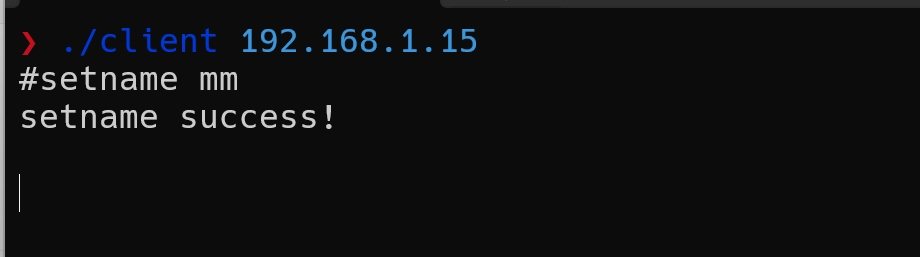
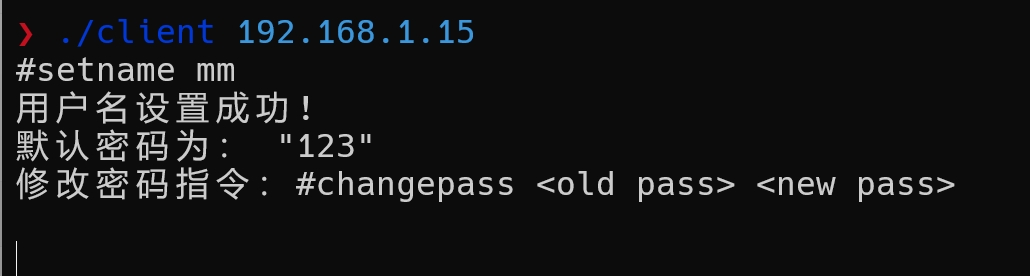
增加密码功能，修改退出登录命令

Changed region(s): [[0.0, 0.0, 0.5174, 1.0], [0.2739, 0.6226, 0.9435, 0.7471], [0.4565, 0.0, 1.0, 0.0311]]

diff --git a/src/server.c b/src/server.c
@@ -103,6 +103,7 @@ int set_user_name(int sfd, char *name, char *err)
 {
     int n, i;
     char *ptr;
+    char password[4] = "123";
 
     if (strlen(name) == 0) {
         n = sprintf(err, "%s", "命令错误，示例：#setname <user_name>\n\n");
@@ -137,10 +138,11 @@ int set_user_name(int sfd, char *name, char *err)
 
             memcpy(only_client[i].name, name, strlen(name));
             only_client[i].name[strlen(name)] = '\0'; // 添加字符串终止符
-
+            // 设置默认密码
+            strncpy(only_client[i].pass, "123", sizeof(only_client[i].pass));
             only_client[i].flag = 1;
             only_client[i].state = -1;
-            printf("set only_client[%d].name = %s\n", i, name);
+            printf("set only_client[%d].name = %s, only_client[%d].pss = %s, flag = %d\n", i, name, i, only_client[i].pass, only_client[i].flag);
             pthread_mutex_unlock(&client_lock);
             return i;
         }
@@ -149,58 +151,94 @@ int set_user_name(int sfd, char *name, char *err)
     return -1;
 }
 
-int login(int sfd, int index, char *name, char *err)
+int login(int sfd, int *index, char *data, char *err)
 {
-    int n, i;
-    if (only_client[index].state != -1 && index > 0) {
+    int n, i, flage = 0;
+    char *ptr;
+    char name[20], pass[20];
+
+    if (only_client[*index].state != -1 && *index >= 0) {
         n = sprintf(err, "%s", "你已经登录过了，不要重复登录（别偷摸登别人号）\n\n");
         err[n] = '\0';
         return -1;
     }
 
-    if (strlen(name) == 0) {
-        n = sprintf(err, "%s", "命令错误，示例：#login <user_name>\n\n");
+    if (strlen(data) == 0) {
+        n = sprintf(err, "%s", "命令错误，示例：#login <user_name> <password>\n\n");
         err[n] = '\0';
         return -1;
     }
 
-    pthread_mutex_lock(&client_lock);
-    for (i = 0; i < MAX_CONNECT_NUM; i++) {
-        if (only_client[i].flag == -1) {
-            continue;
-        }
-        if ((memcmp(name, only_client[i].name, strlen(name)) == 0) && (only_client[i].state == -1)) {
-            only_client[i].state = 1;
-            only_client[i].fd = sfd;
-            pthread_mutex_unlock(&client_lock);
-            return i;
-        }
-    }
-    pthread_mutex_unlock(&client_lock);
+    ptr = strchr(data, ' ');
+    if (ptr != NULL) {
+        // 复制私聊名字
+        strncpy(name, data, ptr - data);
+        name[ptr - data] = '\0';  // 添加字符串终止符
 
-    n = sprintf(err, "%s", "Username inexistence!\n\n");
-    err[n] = '\0';
+        // 移动指针到密码
+        data = ptr + 1;
+        //得到密码部分
+        strncpy(pass, data, sizeof(pass) - 1);
+        pass[strcspn(pass, "\n")] = '\0';
+
+        pthread_mutex_lock(&client_lock);
+        for (i = 0; i < MAX_CONNECT_NUM; i++) {
+            if (only_client[i].flag == -1) {
+                continue;
+            }
+
+            if ((memcmp(name, only_client[i].name, strlen(name)) == 0) &&
+                (!memcmp(pass, only_client[i].pass, strlen(pass)))) {
+                if (-1 == only_client[i].state) {
+                    only_client[i].state = 1;
+                    only_client[i].fd = sfd;
+                    pthread_mutex_unlock(&client_lock);
+                    *index = i;
+                    return i;
+                } else {
+                    flage = 1;
+                }
+            }
+        }
+        pthread_mutex_unlock(&client_lock);
+    } else {
+        n = sprintf(err, "Incorrect usage\n\n");
+        err[n] = '\0';
+        *index = -1;
+        return -1;
+    }
+
+    if (flage) {
+       n = sprintf(err, "%s", "该用户已经登录!\n\n");
+       err[n] = '\0'; 
+    } else {
+       n = sprintf(err, "%s", "Username inexistence or wrong password!\n\n");
+       err[n] = '\0'; 
+    }
+
+    *index = -1;
     return -1;
 }
 
 //每个人退出自己登录
-void logout(int sfd, int *index, char *err)
+int logout(int sfd, int *index, char *err)
 {
     int n, i;
 
-    if (*index < 0) {
-        n = sprintf(err, "%s", "You are not logged in yet, no need to log out!\n\n");
-        err[n] = '\0';
-        return;
+    printf("logout: index = %d, state = %d\n", *index, only_client[*index].state);
+    if (*index >= 0 && (only_client[*index].state == 1)) {
+        pthread_mutex_lock(&client_lock);
+        only_client[*index].fd = -1;
+        only_client[*index].state = -1;
+        pthread_mutex_unlock(&client_lock);
+
+        *index = -1;
+        return 0;
     }
 
-    pthread_mutex_lock(&client_lock);
-    only_client[*index].fd = -1;
-    only_client[*index].state = -1;
-    pthread_mutex_unlock(&client_lock);
-
-    *index = 0;
-    return;
+    n = sprintf(err, "%s", "You are not logged in yet, no need to log out!\n\n");
+    err[n] = '\0';
+    return -1;
 }
 
 int private_user(int from_index, char *data, char *err)
@@ -213,6 +251,18 @@ int private_user(int from_index, char *data, char *err)
 
     if (strlen(data) == 0) {
         n = sprintf(err, "%s", "命令错误，示例：#private <user_name> <string>\n\n");
+        err[n] = '\0';
+        return -1;
+    }
+
+    if (from_index < 0) {
+        n = sprintf(err, "%s", "请登录后再进行聊天，Thanks\n\n");
+        err[n] = '\0';
+        return -1;
+    }
+
+    if (only_client[from_index].state == -1) {
+        n = sprintf(err, "%s", "请登录后再进行聊天，Thanks\n\n");
         err[n] = '\0';
         return -1;
     }
@@ -271,10 +321,10 @@ void *handler(void *arg)
         char cmd[20];
         char data[MAX_LINE_VAL];
         char err[128];
-        char ok[40];
+        char ok[1024];
         memset(err, 0, 128);
         memset(cmd, 0, 20);
-        memset(ok, 0, 40);
+        memset(ok, 0, 1024);
         memset(data, 0, MAX_LINE_VAL);
 
         memset(buf, 0, MAX_LINE_VAL);
@@ -307,12 +357,12 @@ void *handler(void *arg)
             if (-1 == index) {
                 write(sfd, err, strlen(err));
             } else {
-                snprintf(ok, 40, "%s\n\n", "setname success!");
+                snprintf(ok, 1024, "%s\n\n", "用户名设置成功!\n默认密码为： \"123\"\n修改密码指令：#changepass <old pass> <new pass>");
                 write(sfd, ok, sizeof(ok));
             }
         } else if (!strcmp(cmd, "login")) {
             // 登录
-            if (-1 == login(sfd, index, data, err)) {
+            if (-1 == login(sfd, &index, data, err)) {
                 write(sfd, err, strlen(err));
             } else {
                 snprintf(ok, 40, "%s\n\n", "login success!");
@@ -324,8 +374,7 @@ void *handler(void *arg)
                 write(sfd, err, strlen(err));
             }
         } else if (!memcmp(cmd, "logout", strlen(cmd))) {
-            logout(sfd, &index, err);
-            if (-1 == index) {
+            if (-1 == logout(sfd, &index, err)) {
                 write(sfd, err, strlen(err));
             } else {
                 snprintf(ok, 40, "%s\n\n", "logout success!");

diff --git a/inc/chat.h b/inc/chat.h
@@ -10,7 +10,6 @@ typedef struct {
     int fd;
     int flag;
     int state;
-    int is_lock;
     char name[20];
     char pass[20];
 } client_info_t;

diff --git a/README.md b/README.md
@@ -22,9 +22,9 @@ make
 
 ## 支持的命令
 
-> 命令是以 # 开头，支持英文
+> 命令是以 # 开头
 
-1. setname
+1. **setname**
 
    ~~~c
    #setname <user_name>
@@ -32,25 +32,23 @@ make
 
    ![](./image/1.png)
 
-2. login
+2. **login**
 
    ~~~c
-   #login <user_name>
+   #login <user_name> <user_pass>
    ~~~
 
    ![](./image/2.png)
 
-   ![](./image/3.png)
-
-3. logout
+3. **logout**
 
    ~~~c
-   #logout <user_name>
+   #logout
    ~~~
 
    ![image-20240728192824456](./image/5.png)
 
-4. private
+4. **private**
 
    ~~~c
    #private <user_name> <string>
